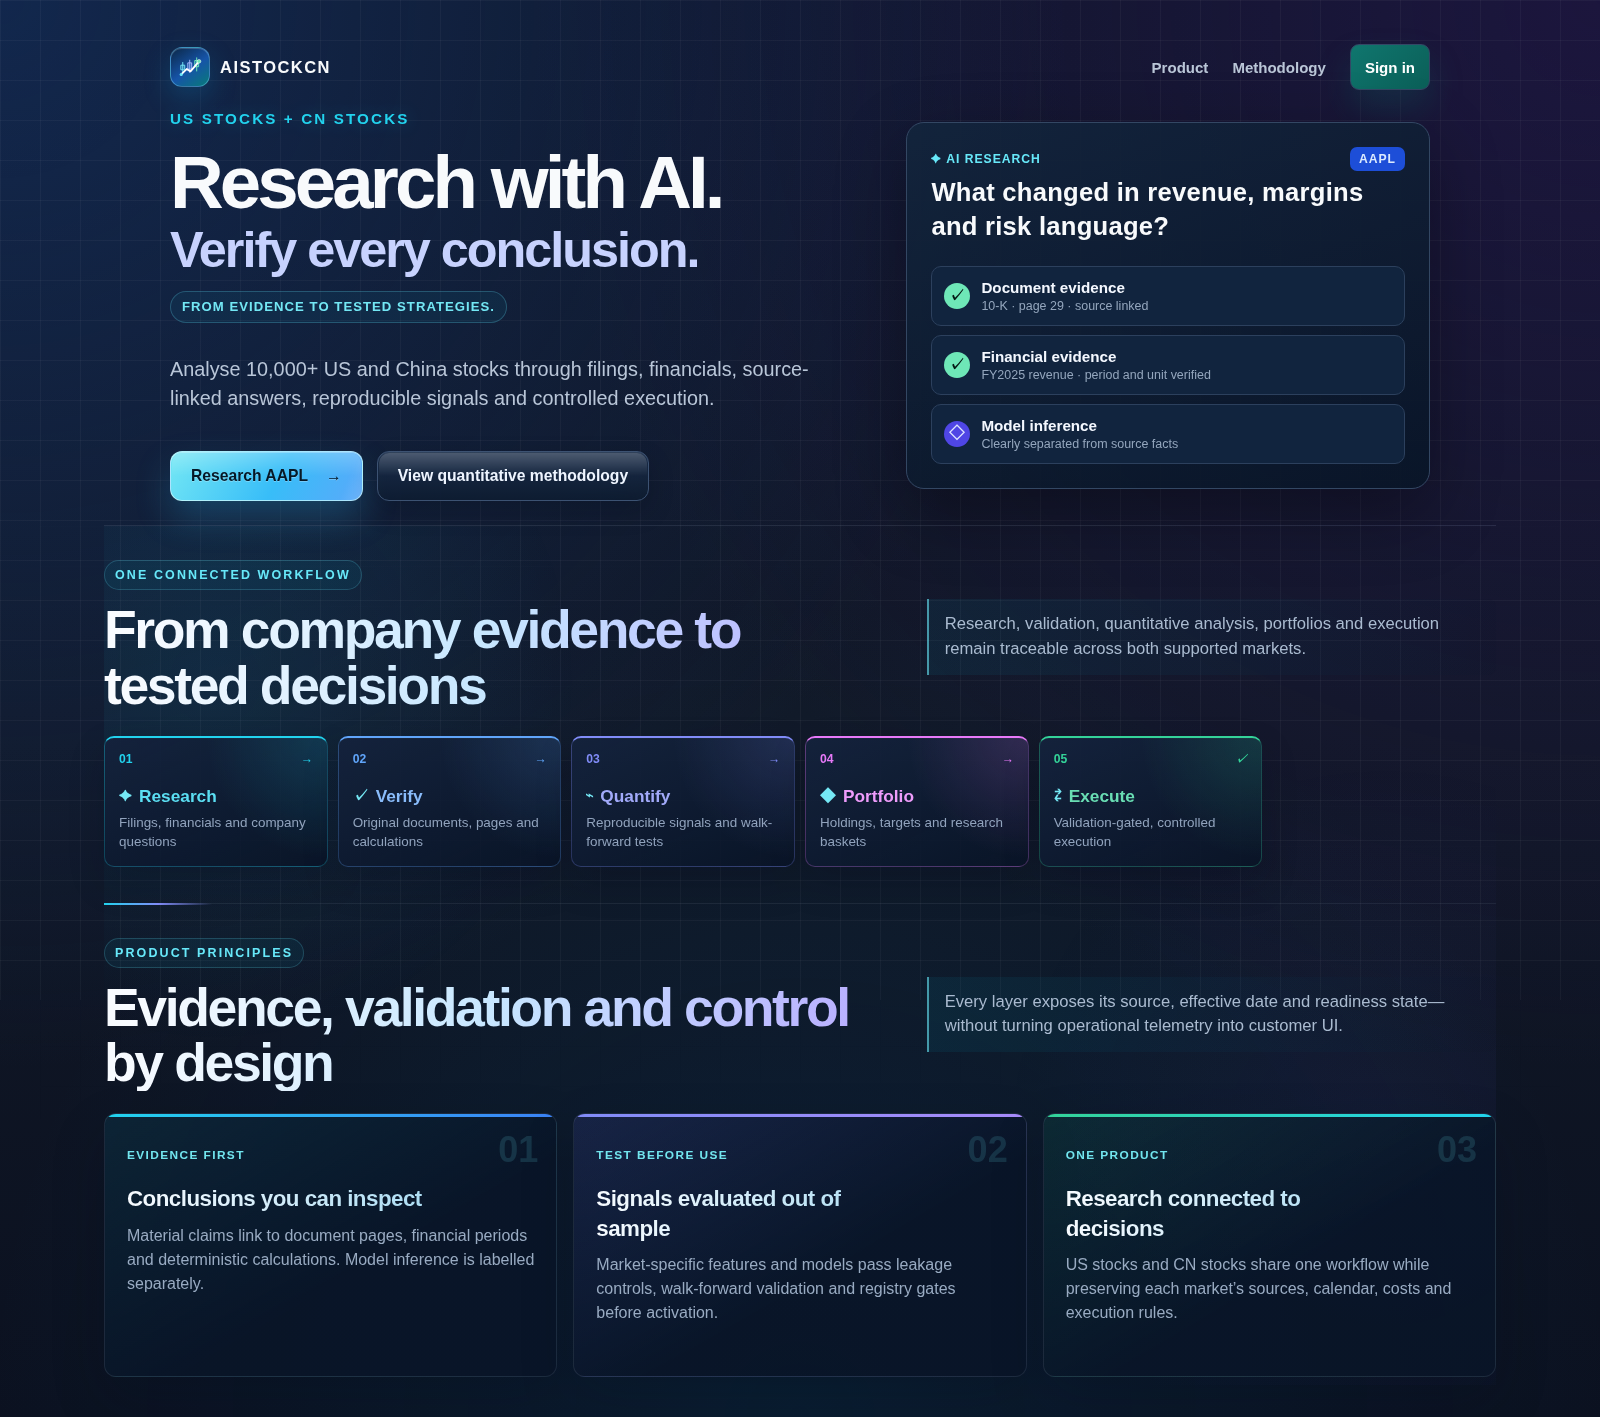
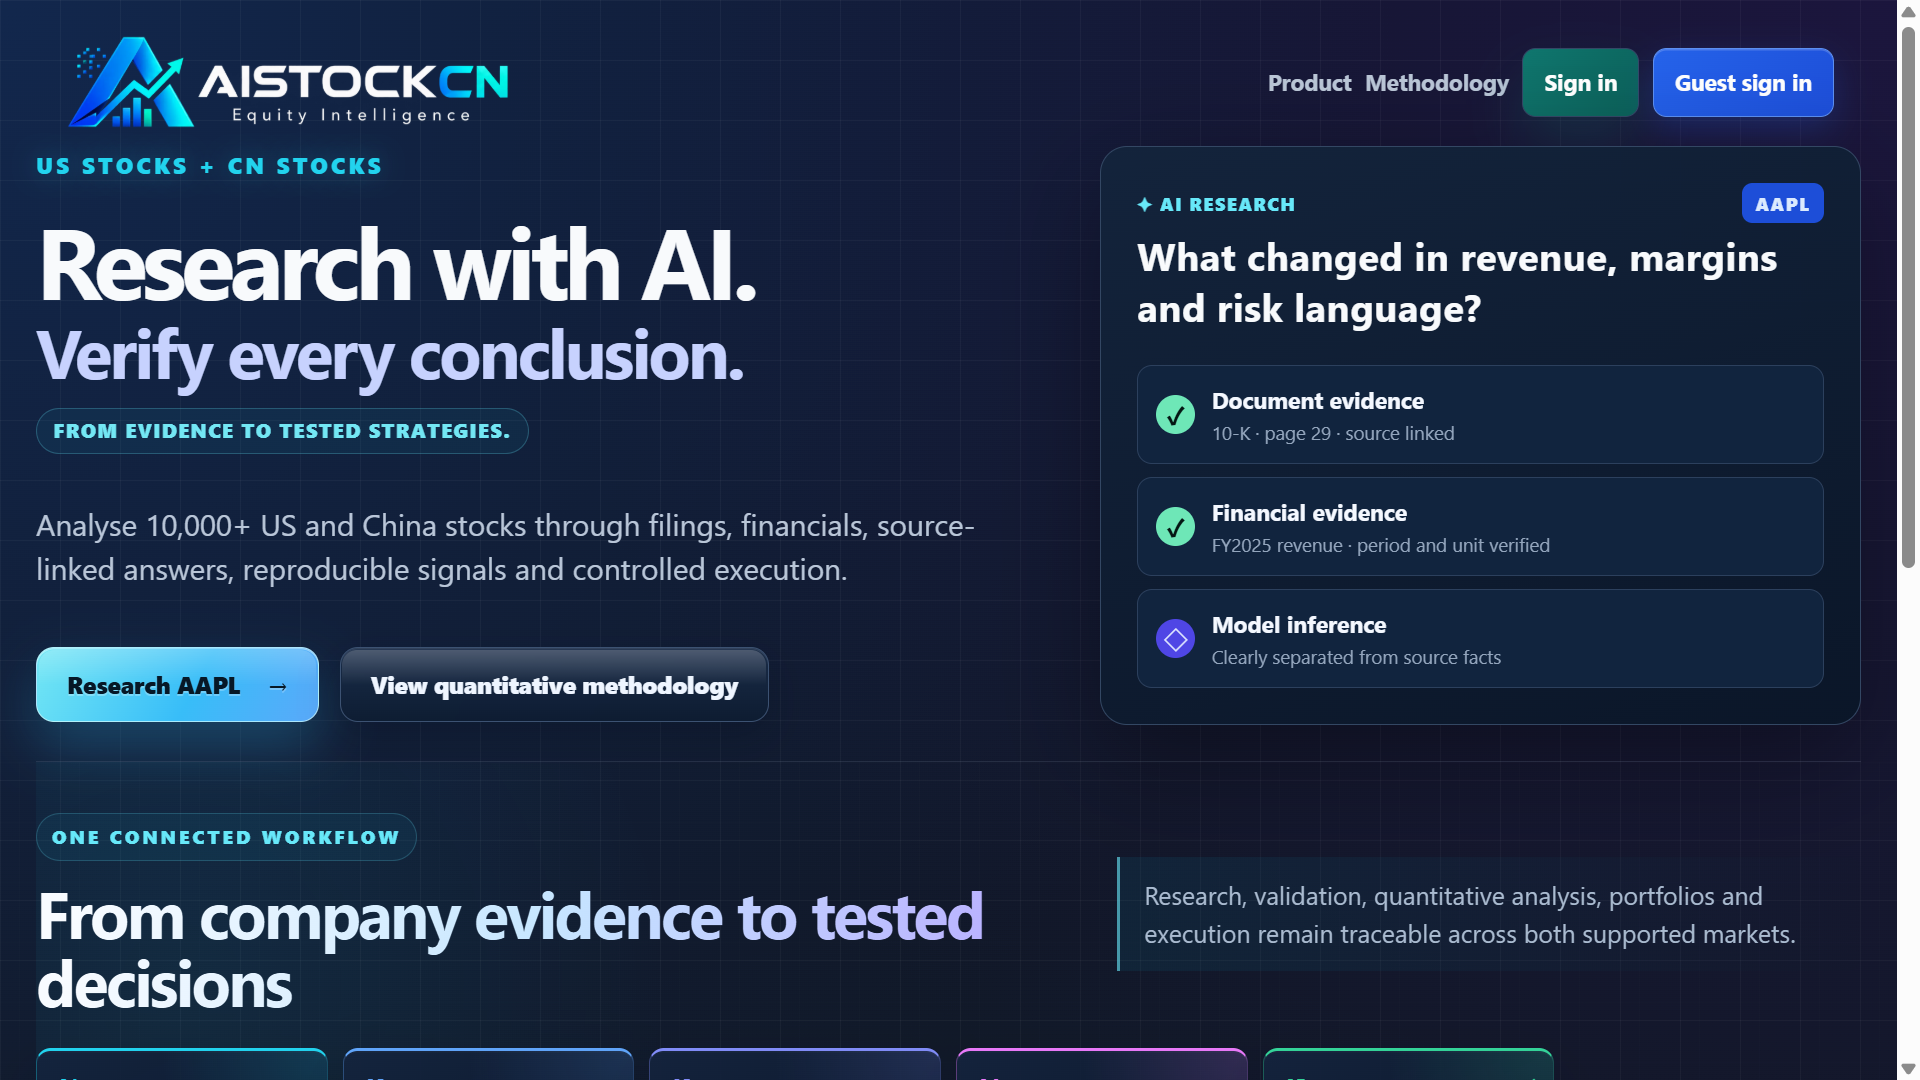
docs(readme): refresh product screenshots and presentation

diff --git a/README.md b/README.md
@@ -4,15 +4,19 @@
 
 # AiStockCN — AI Equity Research and Quantitative Trading
 
+<p align="center"><strong>Research companies with AI. Verify every conclusion. Turn evidence into tested decisions.</strong></p>
+
 AiStockCN is one authenticated product for AI company research, evidence verification, quantitative signals, portfolios and controlled execution across more than 5,000 actively tracked US-listed equities and more than 5,000 China A-shares.
 
 The integrated Research Copilot answers company questions, compares businesses and detects material filing changes while keeping original documents, financial facts, model inference and limitations clearly separated.
 
-- Product: [aistockcn.com](https://aistockcn.com)
-- US company research: [aistockcn.com/us/research](https://aistockcn.com/us/research)
-- A-share company research: [aistockcn.com/cn/research](https://aistockcn.com/cn/research)
-- Product and operating guide: [Research Copilot documentation](docs/RESEARCH_COPILOT.md)
-- Documentation index: [docs/README.md](docs/README.md)
+<p align="center">
+  <a href="https://aistockcn.com">Live product</a> ·
+  <a href="https://aistockcn.com/us/research">US research</a> ·
+  <a href="https://aistockcn.com/cn/research">CN research</a> ·
+  <a href="docs/RESEARCH_COPILOT.md">Product guide</a> ·
+  <a href="docs/README.md">Documentation</a>
+</p>
 
 ## Product at a glance
 
@@ -27,23 +31,23 @@ The integrated Research Copilot answers company questions, compares businesses a
 
 ## Product in action
 
+### One product across US and China markets
+
+![AiStockCN unified US and China equity product](docs/assets/product-home.png)
+
+The product entry connects research, evidence verification, quantitative analysis, portfolios and controlled execution without splitting each market into a separate product.
+
+### Unified market intelligence workspace
+
+![AiStockCN US market intelligence workspace](docs/assets/us-market-overview.png)
+
+US and China stocks share the same navigation, market switching and product stages while retaining market-specific data, calendars, models and execution controls.
+
 ### Evidence-grounded company research
 
 ![AiStockCN source-grounded company research workspace](docs/assets/research-answer-desktop.png)
 
-The company workspace combines live market context, comparable-period SEC XBRL facts, deterministic financial trends, model interpretation and original sources. Current period, previous period and change remain visible together; every displayed financial fact retains its audit locator.
-
-### Material filing change detection
-
-![AiStockCN filing change detection with bilateral evidence](docs/assets/filing-change-detection.png)
-
-Annual reports are compared as reproducible runs rather than free-form summaries. Proposed additions, removals and language changes keep both original passages, run history and human-review state.
-
-### One product across two markets
-
-![AiStockCN unified US and China equity product](docs/assets/product-home.png)
-
-The product entry connects Research, Verify, Quantify, Portfolio and Execute without presenting separate products for each market or workflow stage.
+The company workspace combines market context, comparable-period SEC XBRL facts, deterministic financial trends, model interpretation and original sources. Current period, previous period and change remain visible together; every displayed financial fact retains its audit locator.
 
 ## What users can do
 
